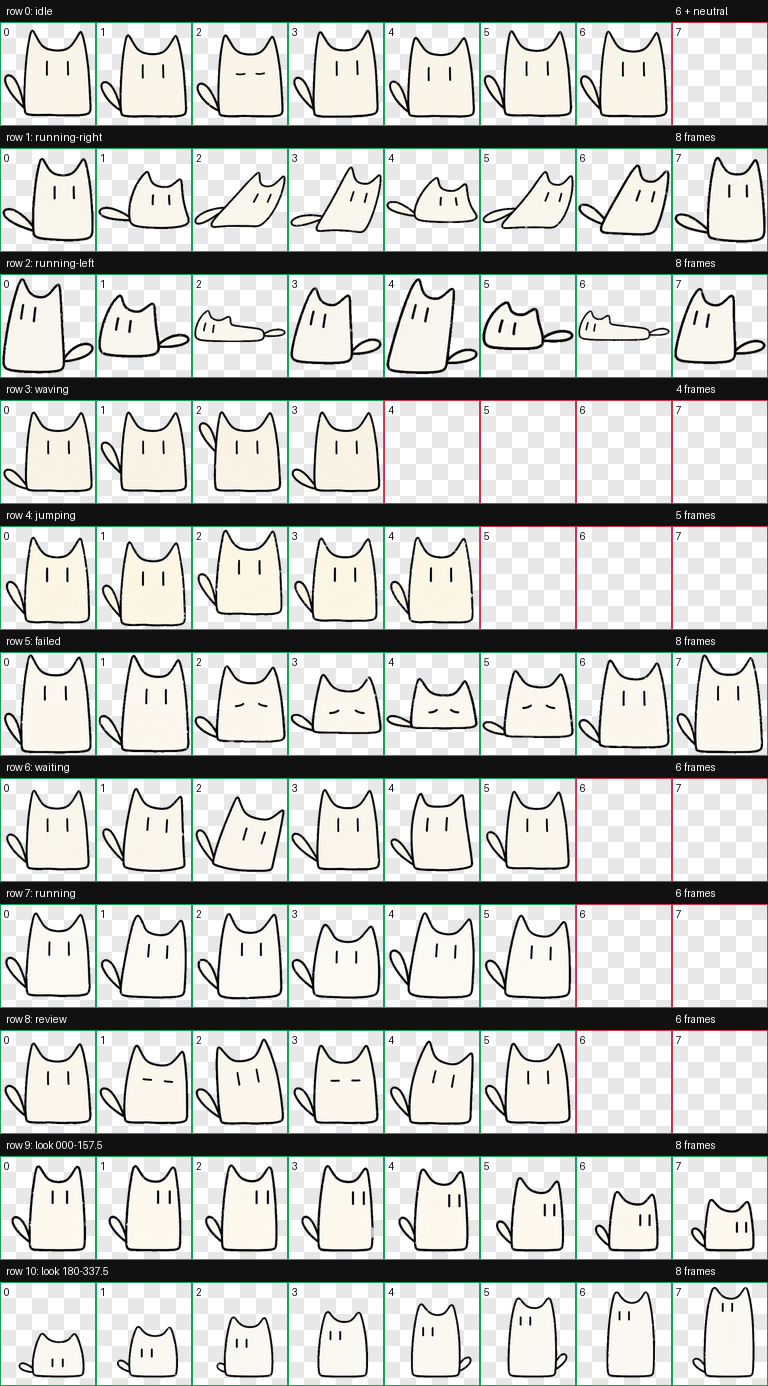
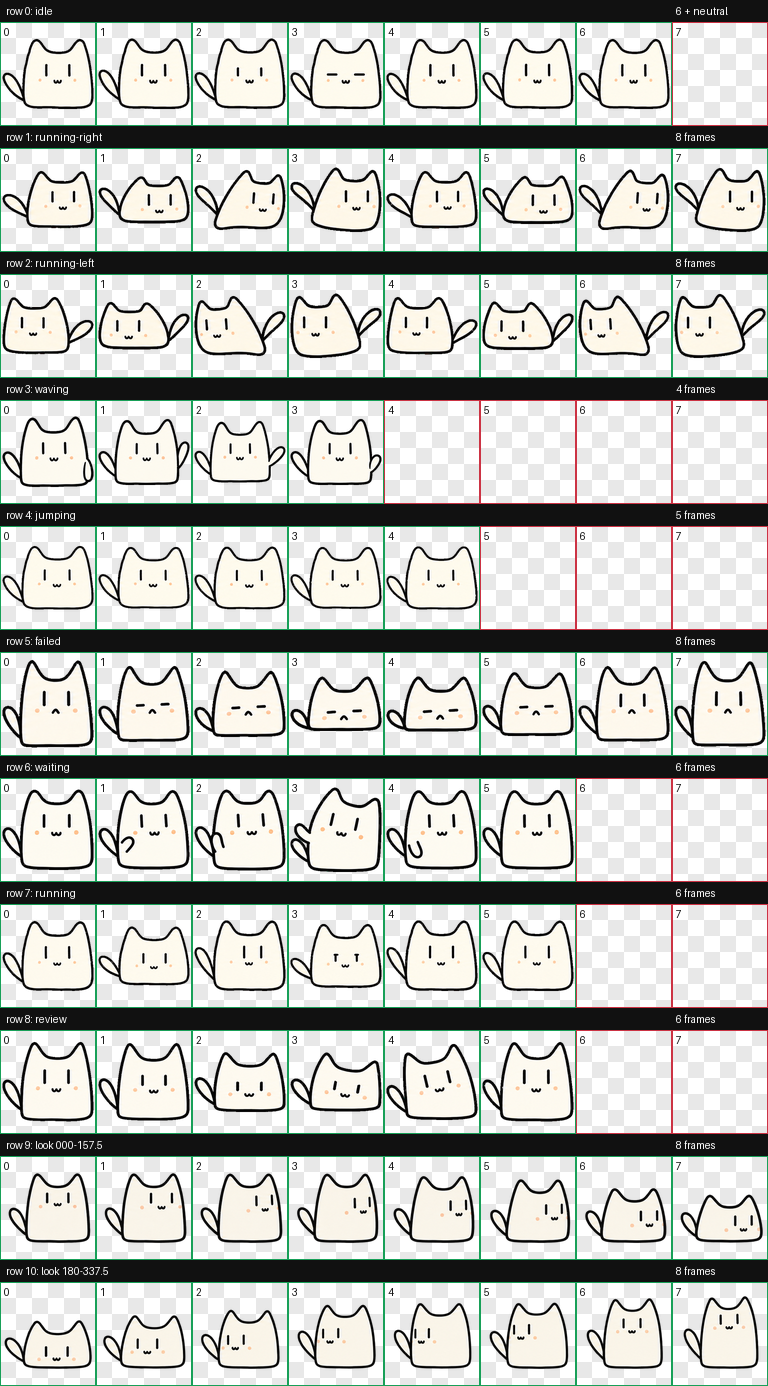
Refine Sketchcat animations and design

diff --git a/README.md b/README.md
@@ -2,7 +2,7 @@
 
 ![Sketchcat animation contact sheet](assets/contact-sheet.png)
 
-Sketchcat is an unofficial custom animated pet for the Codex desktop app. It is based on an original minimalist hand-drawn cat: a boxy body, pointed upright ears, two simple vertical eyes, and an expressive tail.
+Sketchcat is an unofficial custom animated pet for the Codex desktop app. It is based on Lynn's original minimalist hand-drawn cat, refined with a shorter rounded body, softer upright ears, a tiny smile, subtle peach cheeks, and an expressive attached tail.
 
 This package uses the Codex v2 pet format:
 
@@ -55,6 +55,14 @@ Then restart Codex and select **Sketchcat**.
 
 The complete atlas layout and direction mapping are documented in [Animation specification](docs/ANIMATION_SPEC.md).
 
+## Design details
+
+- Flat 2D hand-drawn line art; no realistic or 3D treatment
+- No separate legs or feet
+- Down-looking poses shorten the whole silhouette
+- Both ears remain upright during the failed animation
+- Jumping begins smoothly without an initial size pop
+
 ## Package contents
 
 ```text
@@ -64,7 +72,6 @@ sketchcat/
 ├── README.md
 ├── CHANGELOG.md
 ├── COPYRIGHT.md
-├── checksums.txt
 ├── assets/
 │   ├── contact-sheet.png
 │   ├── look-directions.png

diff --git a/CHANGELOG.md b/CHANGELOG.md
@@ -2,6 +2,15 @@
 
 All notable changes to Sketchcat are recorded here.
 
+## 1.1.0 — 2026-09-24
+
+- Refined the cat into a cuter, shorter, rounder silhouette while preserving the minimalist 2D line-art style.
+- Softened the upright ear shape and added a tiny smile with subtle peach cheeks.
+- Rebuilt all nine standard animation rows and all sixteen look directions around one consistent design.
+- Preserved the no-legs rule, whole-body shortening for downward looks, and upright ears in the failed animation.
+- Removed the initial size pop from the jumping transition.
+- Revalidated the 8 × 11 Codex v2 atlas and refreshed all preview assets.
+
 ## 1.0.0 — 2026-07-21
 
 - Initial public-ready Codex v2 package.
